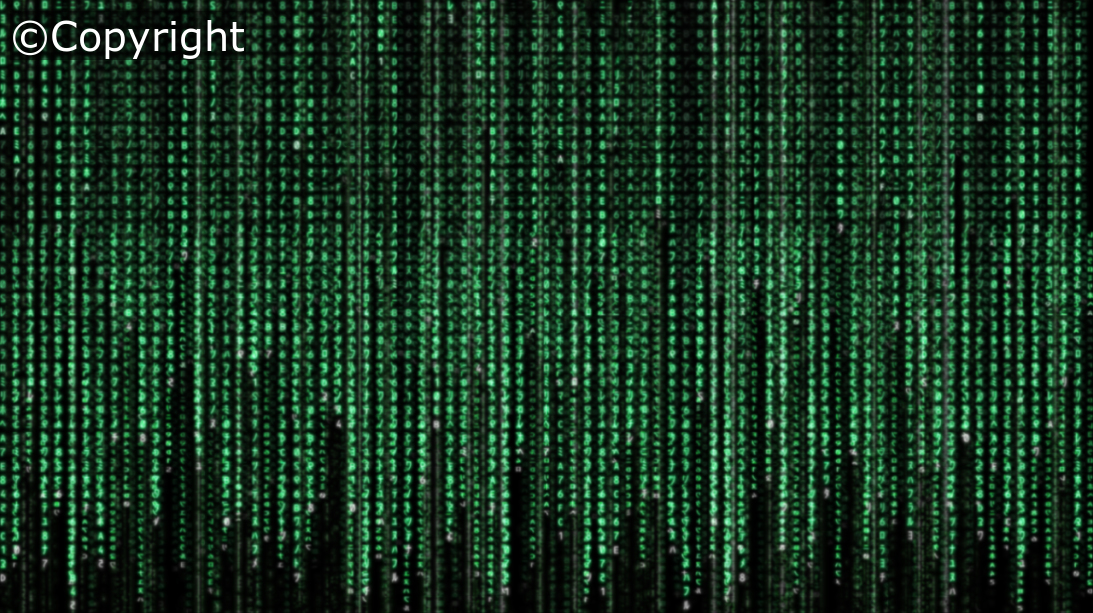
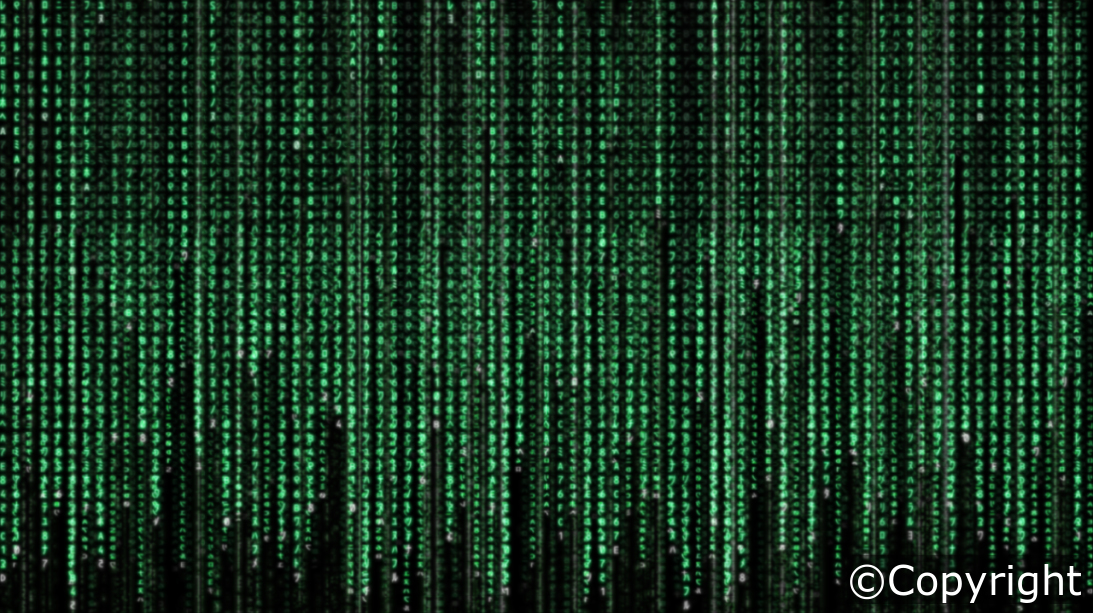
~ sonar clean code

Changed region(s): [[0.7777, 0.8989, 0.9954, 0.9918], [0.0, 0.0, 0.2489, 0.124]]

diff --git a/classes/ImagesManager.php b/classes/ImagesManager.php
@@ -85,7 +85,7 @@ class ImagesManager
             $this->image->destroy();
         }
     }
-    
+
     /*-----  End of Magic methods  ------*/
 
     /*=========================================
@@ -182,43 +182,43 @@ class ImagesManager
         $draw->setFillColor('#ffffff');
         $draw->setTextUnderColor('#00000088');
         
-        $textMetrics = $this->image->queryFontMetrics($draw, $text);
+        $textMetrics     = $this->image->queryFontMetrics($draw, $text);
+        $textWidth       = $textMetrics['textWidth'] + 2 * $textMetrics['boundingBox']['x1'];
+        $extraTextHeight = $textMetrics['descender'];
+        $textHeight      = $textMetrics['textHeight'] + $extraTextHeight;
 
         switch ($position) {
             case 'bottom-right':
-                $width  = $this->image->getImageWidth()
-                    - ($textMetrics['textWidth'] + 2 * $textMetrics['boundingBox']['x1']);
-                $height = $this->image->getImageHeight();
+                $width  = $this->image->getImageWidth() - $textWidth;
+                $height = $this->image->getImageHeight() + $extraTextHeight;
                 $width  -= static::$EXTRA_TEXT_PADDING;
                 $height -= static::$EXTRA_TEXT_PADDING;
                 break;
 
             case 'bottom-left':
                 $width  = 0;
-                $height = $this->image->getImageHeight();
+                $height = $this->image->getImageHeight() + $extraTextHeight;
                 $width  += static::$EXTRA_TEXT_PADDING;
                 $height -= static::$EXTRA_TEXT_PADDING;
                 break;
 
             case 'top-right':
-                $width  = $this->image->getImageWidth()
-                    - ($textMetrics['textWidth'] + 2 * $textMetrics['boundingBox']['x1']);
-                $height = $textMetrics['textHeight'] + $textMetrics['descender'];
+                $width  = $this->image->getImageWidth() - $textWidth;
+                $height = $textHeight;
                 $width  -= static::$EXTRA_TEXT_PADDING;
                 $height += static::$EXTRA_TEXT_PADDING;
                 break;
 
             case 'top-left':
                 $width  = 0;
-                $height = $textMetrics['textHeight'] + $textMetrics['descender'];
+                $height = $textHeight;
                 $width  += static::$EXTRA_TEXT_PADDING;
                 $height += static::$EXTRA_TEXT_PADDING;
                 break;
             
             default:
-                $width  = $this->image->getImageWidth()
-                    - ($textMetrics['textWidth'] + 2 * $textMetrics['boundingBox']['x1']);
-                $height = $this->image->getImageHeight();
+                $width  = $this->image->getImageWidth() - $textWidth;
+                $height = $this->image->getImageHeight() + $extraTextHeight;
                 $width  -= static::$EXTRA_TEXT_PADDING;
                 $height -= static::$EXTRA_TEXT_PADDING;
                 break;

diff --git a/devTests/testImagesManager.php b/devTests/testImagesManager.php
@@ -16,7 +16,7 @@ try {
     $image->setImageSavePath(__DIR__ . '/testResizes');
     $image->generateResizedImagesByWidth(Images::$WIDTHS_16_9);
     $image->setImageSavePath(__DIR__ . '/testCopyright');
-    $image->copyrightImage('©Copyright', 40, 'Verdana', 'top-left');
+    $image->copyrightImage('©Copyright', 40, 'Verdana', 'bottom-right');
 
 } catch (Exception $e) {
 } finally {
